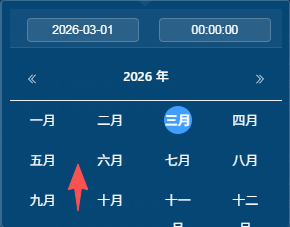
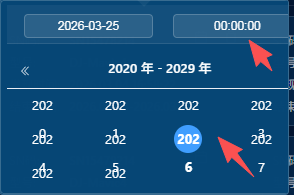
fix: 修复 DateTimePicker 日期选择器宽度和输入框溢出问题
1. 面板宽度从 290px 增加到 320px
2. 顶部日期和时间输入框：
   - 使用 flex: 1 1 auto 自适应宽度
   - 设置 max-width: 50% 限制最大宽度
   - 字体大小改为 11px
   - padding 改为 0 4px
3. 年份单元格内容宽度增加到 65px
4. 月份单元格内容宽度增加到 60px
5. 更新版本号为 202603251230 强制刷新缓存

diff --git a/frontend/index.html b/frontend/index.html
@@ -9,7 +9,7 @@
     <meta http-equiv="Expires" content="0">
     <script>
       // 强制检查版本，如果本地存储的版本号与当前不同，强制刷新
-      const VERSION = '202603251225';
+      const VERSION = '202603251230';
       if (localStorage.getItem('app_version') !== VERSION) {
         localStorage.setItem('app_version', VERSION);
         // 强制重新加载（绕过缓存）
@@ -34,8 +34,8 @@
         margin-bottom: 0 !important;
         transform: none !important;
         inset: auto !important;
-        width: 290px !important;
-        max-height: 360px !important;
+        width: 320px !important;
+        max-height: 380px !important;
         overflow: hidden !important;
         box-sizing: border-box !important;
       }
@@ -48,7 +48,7 @@
       
       /* 面板内容区域 */
       .el-picker__popper .el-picker-panel__body {
-        padding: 4px 6px !important;
+        padding: 6px 8px !important;
         width: 100% !important;
         box-sizing: border-box !important;
         overflow: hidden !important;
@@ -64,53 +64,59 @@
       
       /* 日期时间选择器的时间头部区域 */
       .el-picker__popper .el-date-picker__time-header {
-        padding: 4px 6px !important;
+        padding: 6px 8px !important;
         border-bottom: 1px solid rgba(255, 255, 255, 0.1) !important;
         display: flex !important;
+        flex-wrap: nowrap !important;
         justify-content: space-between !important;
         align-items: center !important;
-        gap: 4px !important;
+        gap: 6px !important;
+        width: 100% !important;
+        box-sizing: border-box !important;
       }
       
-      /* 日期输入框 */
+      /* 日期输入框容器 */
       .el-picker__popper .el-date-picker__editor-wrap {
-        flex: 1 !important;
+        flex: 1 1 auto !important;
         min-width: 0 !important;
+        max-width: 50% !important;
+        box-sizing: border-box !important;
       }
       
       .el-picker__popper .el-date-picker__editor-wrap .el-input {
         width: 100% !important;
+        box-sizing: border-box !important;
       }
       
       .el-picker__popper .el-date-picker__editor-wrap .el-input__wrapper {
         width: 100% !important;
-        padding: 0 6px !important;
+        padding: 0 4px !important;
         box-sizing: border-box !important;
       }
       
       .el-picker__popper .el-date-picker__editor-wrap .el-input__inner {
-        font-size: 12px !important;
+        font-size: 11px !important;
         padding: 0 !important;
         text-align: center !important;
       }
       
       /* 头部区域 - 年月选择 */
       .el-picker__popper .el-date-picker__header {
-        padding: 4px 6px !important;
+        padding: 6px 8px !important;
         margin: 0 !important;
         line-height: 24px !important;
       }
       
       /* 年月标签 */
       .el-picker__popper .el-date-picker__header-label {
-        font-size: 13px !important;
+        font-size: 14px !important;
         font-weight: 500 !important;
         padding: 0 4px !important;
       }
       
       /* ========== 年份选择器关键修复 ========== */
       
-      /* 年份表格 - 固定表格布局，宽度100% */
+      /* 年份表格 - 固定表格布局 */
       .el-picker__popper .el-year-table {
         table-layout: fixed !important;
         width: 100% !important;
@@ -121,8 +127,8 @@
       /* 年份单元格 - 每行4个，宽度25% */
       .el-picker__popper .el-year-table td {
         width: 25% !important;
-        height: 34px !important;
-        padding: 1px 0 !important;
+        height: 36px !important;
+        padding: 2px 0 !important;
         text-align: center !important;
         box-sizing: border-box !important;
         vertical-align: middle !important;
@@ -131,13 +137,13 @@
       /* 年份单元格内容 - 不换行 */
       .el-picker__popper .el-year-table td .cell {
         display: inline-block !important;
-        width: 58px !important;
+        width: 65px !important;
         padding: 0 !important;
         margin: 0 auto !important;
         text-align: center !important;
         white-space: nowrap !important;
         overflow: visible !important;
-        font-size: 13px !important;
+        font-size: 14px !important;
         font-weight: 400 !important;
         line-height: 32px !important;
         height: 32px !important;
@@ -145,7 +151,7 @@
       
       /* ========== 月份选择器 ========== */
       
-      /* 月份表格 - 固定表格布局，宽度100% */
+      /* 月份表格 - 固定表格布局 */
       .el-picker__popper .el-month-table {
         table-layout: fixed !important;
         width: 100% !important;
@@ -156,8 +162,8 @@
       /* 月份单元格 - 每行4个，宽度25% */
       .el-picker__popper .el-month-table td {
         width: 25% !important;
-        height: 34px !important;
-        padding: 1px 0 !important;
+        height: 36px !important;
+        padding: 2px 0 !important;
         text-align: center !important;
         box-sizing: border-box !important;
         vertical-align: middle !important;
@@ -166,13 +172,13 @@
       /* 月份单元格内容 - 不换行 */
       .el-picker__popper .el-month-table td .cell {
         display: inline-block !important;
-        width: 52px !important;
+        width: 60px !important;
         padding: 0 !important;
         margin: 0 auto !important;
         text-align: center !important;
         white-space: nowrap !important;
         overflow: visible !important;
-        font-size: 12px !important;
+        font-size: 13px !important;
         line-height: 32px !important;
         height: 32px !important;
       }
@@ -191,7 +197,7 @@
       /* 星期表头 */
       .el-picker__popper .el-date-table th {
         padding: 2px 0 !important;
-        font-size: 11px !important;
+        font-size: 12px !important;
         font-weight: 400 !important;
         line-height: 20px !important;
       }
@@ -199,39 +205,39 @@
       .el-picker__popper .el-date-table td {
         padding: 1px 0 !important;
         width: auto !important;
-        height: 22px !important;
+        height: 24px !important;
       }
       
       .el-picker__popper .el-date-table td .el-date-table-cell {
-        height: 20px !important;
+        height: 22px !important;
         padding: 0 1px !important;
       }
       
       /* ========== 时间面板 ========== */
       
       .el-picker__popper .el-time-panel {
-        padding: 4px !important;
+        padding: 6px !important;
         width: 100% !important;
         box-sizing: border-box !important;
       }
       
       .el-picker__popper .el-time-spinner__item {
         font-size: 12px !important;
-        height: 24px !important;
-        line-height: 24px !important;
+        height: 26px !important;
+        line-height: 26px !important;
       }
       
       /* ========== 底部按钮区 ========== */
       
       .el-picker__popper .el-picker-panel__footer {
-        padding: 4px 6px !important;
+        padding: 6px 8px !important;
         border-top: 1px solid rgba(255, 255, 255, 0.1) !important;
       }
       
       .el-picker__popper .el-picker-panel__footer .el-button {
         font-size: 12px !important;
-        padding: 4px 10px !important;
-        height: 24px !important;
+        padding: 4px 12px !important;
+        height: 26px !important;
       }
     </style>
   </head>
